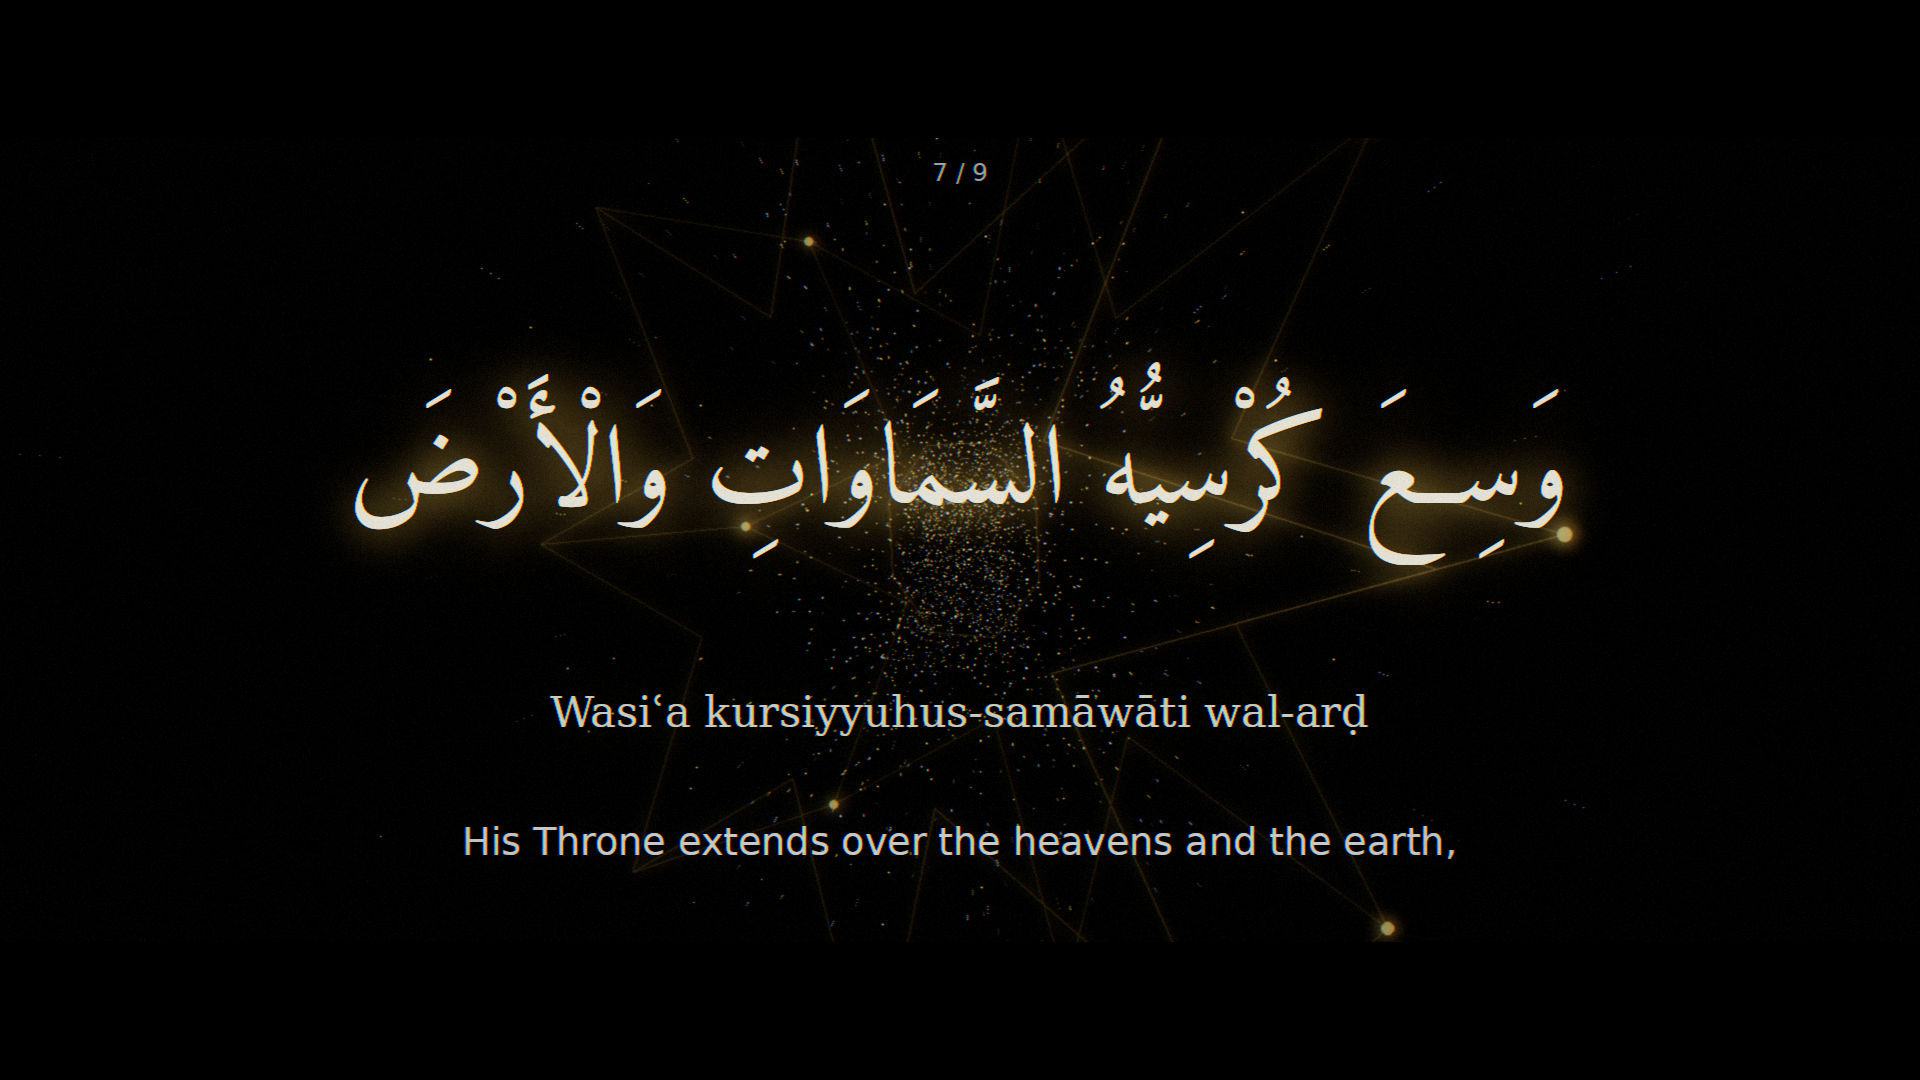
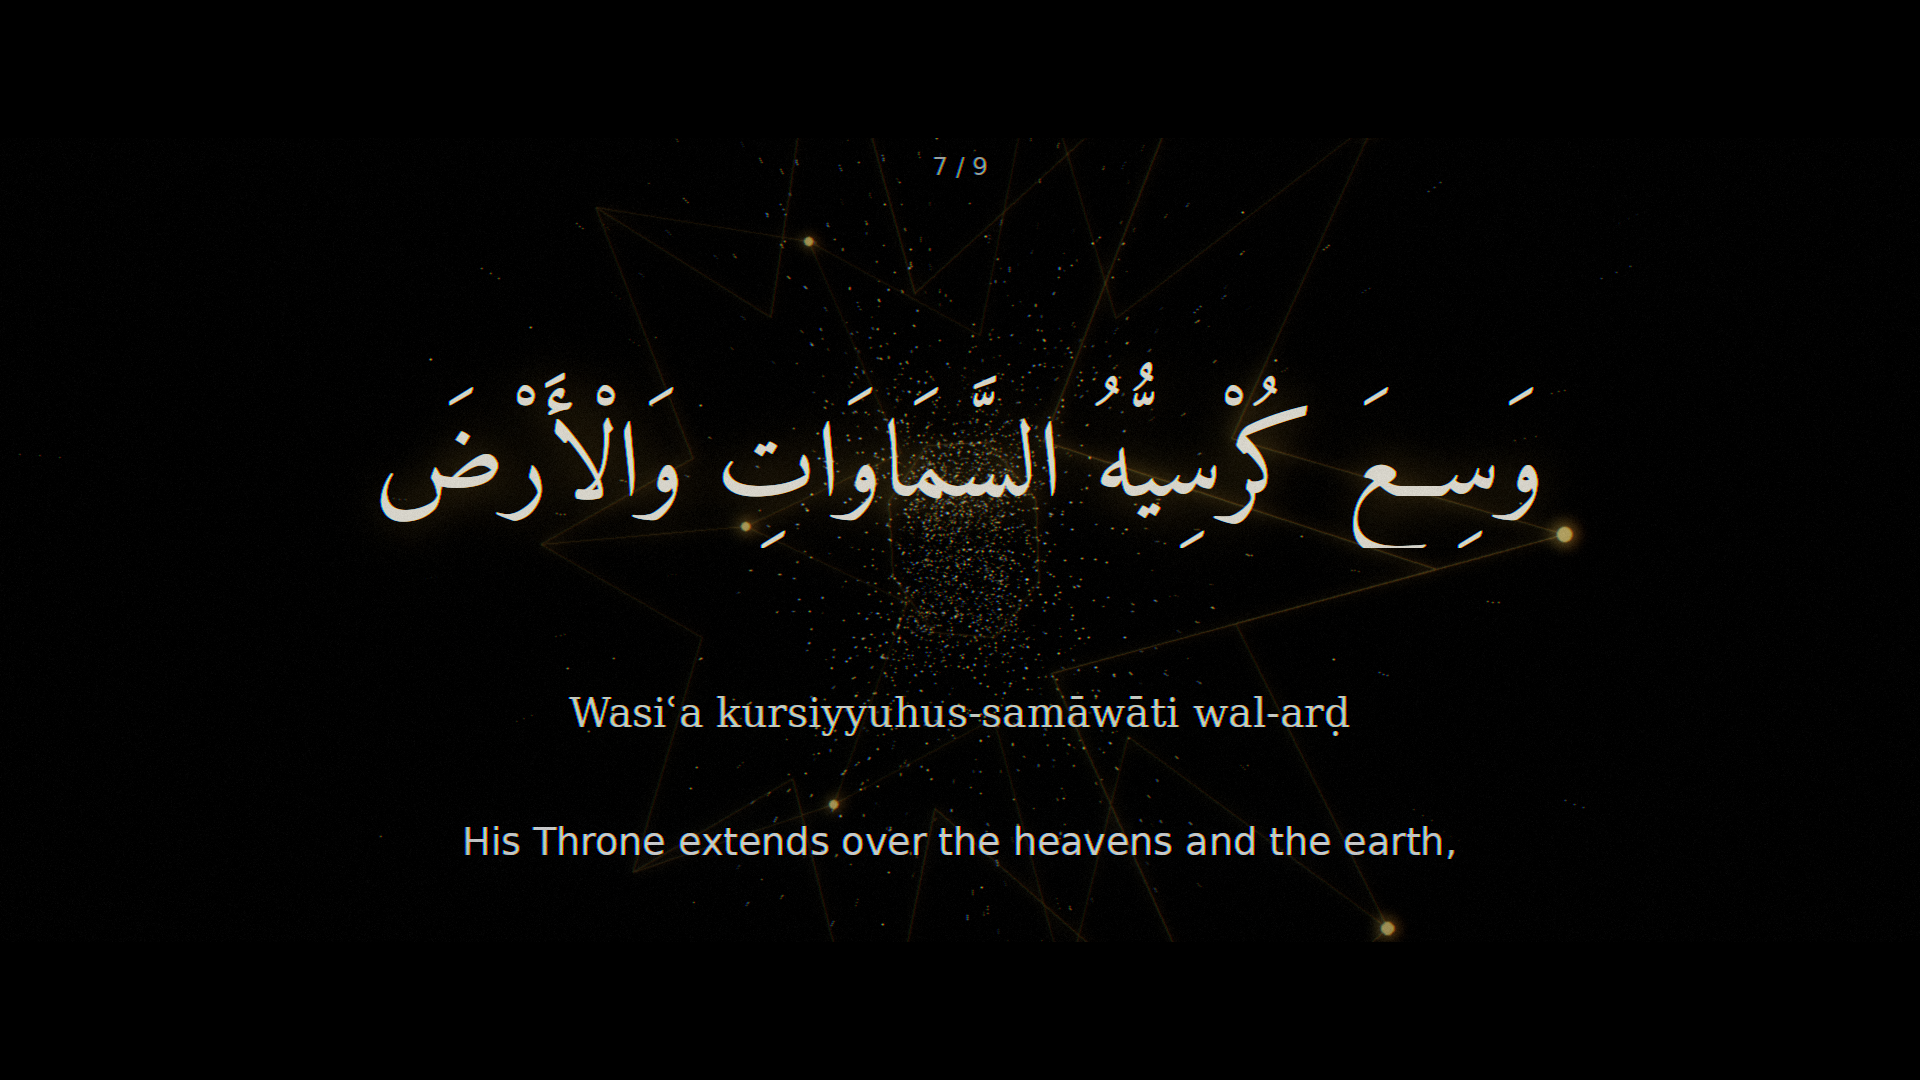
Add kinetic word-by-word reveals and camera parallax
- Arabic revealed word by word in RTL reading order, each word rising into
  place with a glow burst; transliteration cascades left-to-right; English
  meaning fades in after
- finale now cascades the full verse line by line before converging
- camera parallax sway: nearer particle layers drift more than the emblem
  and text for a sense of depth
- layout_words / make_word_tile / reveal_words helpers

https://claude.ai/code/session_01KhTXHDekyBS7JiP1gvypY7

diff --git a/src/cinematic.py b/src/cinematic.py
@@ -150,13 +150,15 @@ class Field:
             self.v[rec] = self.rng.uniform(-1.25, 1.25, k)
             self.mag[rec] = self.rng.uniform(0.35, 1.0, k) ** 1.6
 
-    def render(self, buf, dz, brightness=1.0, streak=1.0):
+    def render(self, buf, dz, brightness=1.0, streak=1.0, pan_u=0.0, pan_v=0.0):
         W, H = self.W, self.H
         cx, cy = W * 0.5, H * 0.5
         z = self.z
         inv = self.scale / z
-        sx = cx + self.u * inv
-        sy = cy + self.v * inv * (W / H)  # keep aspect of motion
+        u = self.u + pan_u                  # camera pan -> nearer stars shift more
+        v = self.v + pan_v
+        sx = cx + u * inv
+        sy = cy + v * inv * (W / H)  # keep aspect of motion
         # brightness falls with depth, sharpens near camera
         depth = np.clip(1.0 - (z - self.znear) / (self.zfar - self.znear), 0, 1)
         amp = (0.30 + 1.5 * depth ** 1.5) * self.mag * brightness
@@ -164,8 +166,8 @@ class Field:
         # motion streaks: sample along the path travelled this frame
         zprev = z + dz
         invp = self.scale / zprev
-        sxp = cx + self.u * invp
-        syp = cy + self.v * invp * (W / H)
+        sxp = cx + u * invp
+        syp = cy + v * invp * (W / H)
         speed = np.hypot(sx - sxp, sy - syp)
         nseg = int(np.clip(streak, 1, 6))
         if nseg <= 1:
@@ -232,7 +234,8 @@ def khatam_geometry(depth=0.30, outer=1.0, inner=0.46):
 _KHATAM_V, _KHATAM_E, _KHATAM_TIPS = khatam_geometry()
 
 
-def render_emblem(W, H, t, cz, rot_speed, scale_px, brightness):
+def render_emblem(W, H, t, cz, rot_speed, scale_px, brightness,
+                  cx_off=0.0, cy_off=0.0):
     """Draw the rotating 3-D emblem to an intensity layer, return RGB float (H,W,3).
 
     Rendered as a glowing line drawing: a sharp core layer plus a strongly
@@ -246,8 +249,8 @@ def render_emblem(W, H, t, cz, rot_speed, scale_px, brightness):
     P[:, 2] += cz
     f = scale_px
     z = P[:, 2]
-    sx = W * 0.5 + f * P[:, 0] / z
-    sy = H * 0.5 + f * P[:, 1] / z
+    sx = W * 0.5 + cx_off + f * P[:, 0] / z
+    sy = H * 0.5 + cy_off + f * P[:, 1] / z
     for i, j in _KHATAM_E:
         if z[i] <= 0.05 or z[j] <= 0.05:
             continue
@@ -291,6 +294,53 @@ def make_text_tile(lines, font_obj, fill, line_gap=1.5, pad=40, align="center"):
         y = pad + i * lh + lh // 2
         d.text((W // 2, y), ln, font=font_obj, fill=fill, anchor="mm")
     return tile
+
+
+def _measure(txt, font_obj):
+    return ImageDraw.Draw(Image.new("RGBA", (4, 4))).textlength(txt, font=font_obj)
+
+
+def make_word_tile(word, font_obj, fill):
+    """Render a single word to a tight RGBA tile (symmetric padding for glow)."""
+    pad = int(font_obj.size * 0.40)
+    adv = _measure(word, font_obj)
+    W = int(adv) + pad * 2
+    H = int(font_obj.size * 1.75) + pad
+    tile = Image.new("RGBA", (W, H), (0, 0, 0, 0))
+    ImageDraw.Draw(tile).text((W // 2, H // 2), word, font=font_obj,
+                              fill=fill, anchor="mm")
+    return tile, adv
+
+
+def layout_words(text, font_obj, fill, max_w, line_h, rtl):
+    """Lay words out into wrapped, centred lines. Returns a list of
+    (tile, dx, dy) in reading order, positioned relative to the block centre."""
+    space_w = max(_measure(" ", font_obj), font_obj.size * 0.30)
+    items = [(w,) + make_word_tile(w, font_obj, fill) for w in text.split()]
+    lines, cur, curw = [], [], 0.0
+    for (w, tile, adv) in items:
+        add = adv + (space_w if cur else 0)
+        if cur and curw + add > max_w:
+            lines.append((cur, curw))
+            cur, curw, add = [], 0.0, adv
+        cur.append((tile, adv))
+        curw += add
+    if cur:
+        lines.append((cur, curw))
+    placed, n = [], len(lines)
+    for li, (cur, curw) in enumerate(lines):
+        dy = (li - (n - 1) / 2.0) * line_h
+        if rtl:
+            x = curw / 2.0
+            for (tile, adv) in cur:
+                placed.append((tile, x - adv / 2.0, dy))
+                x -= adv + space_w
+        else:
+            x = -curw / 2.0
+            for (tile, adv) in cur:
+                placed.append((tile, x + adv / 2.0, dy))
+                x += adv + space_w
+    return placed
 
 
 def wrap_latin(txt, font_obj, max_w):
@@ -455,24 +505,32 @@ def prepare_assets(W, H):
     assets["title_sub"] = make_text_tile(
         ["THE THRONE  •  " + verse.REFERENCE.upper()],
         font(F_LATIN, int(H * 0.028)), (190, 200, 205, 255))
-    # per verse
+    # per verse — Arabic & transliteration are laid out word-by-word for the
+    # kinetic reveal; the English meaning fades in as wrapped line tiles.
+    ar_font = font(F_QURAN, int(H * 0.100))
+    tr_font = font(F_SERIF, int(H * 0.038))
     for i, (ar, tr, en) in enumerate(verse.SEGMENTS, 1):
-        ar_lines = wrap_arabic(ar, font(F_QURAN, int(H * 0.105)), max_w)
-        assets[f"ar{i}"] = make_text_tile(
-            ar_lines, font(F_QURAN, int(H * 0.105)), (246, 238, 214, 255), line_gap=1.65)
-        tr_lines = wrap_latin(tr, font(F_SERIF, int(H * 0.040)), max_w)
-        assets[f"tr{i}"] = make_text_tile(
-            tr_lines, font(F_SERIF, int(H * 0.040)), (206, 214, 200, 255))
+        assets[f"arw{i}"] = layout_words(
+            ar, ar_font, (246, 238, 214, 255), max_w,
+            line_h=int(H * 0.100 * 1.6), rtl=True)
+        assets[f"trw{i}"] = layout_words(
+            tr, tr_font, (206, 214, 200, 255), max_w,
+            line_h=int(H * 0.038 * 1.5), rtl=False)
         en_lines = wrap_latin(en, font(F_LATIN, int(H * 0.036)), max_w)
         assets[f"en{i}"] = make_text_tile(
             en_lines, font(F_LATIN, int(H * 0.036)), (214, 218, 224, 255))
         assets[f"ct{i}"] = make_text_tile(
             [f"{i} / {len(verse.SEGMENTS)}"], font(F_LATIN, int(H * 0.024)),
             (150, 160, 165, 255))
-    # finale
-    fa = wrap_arabic(verse.FULL_ARABIC, font(F_QURAN, int(H * 0.062)), int(W * 0.82))
-    assets["full_ar"] = make_text_tile(
-        fa, font(F_QURAN, int(H * 0.062)), (244, 236, 212, 255), line_gap=1.7)
+    # finale — full verse revealed line-by-line (cascade)
+    full_font = font(F_QURAN, int(H * 0.060))
+    fa = wrap_arabic(verse.FULL_ARABIC, full_font, int(W * 0.82))
+    lh = int(H * 0.060 * 1.75)
+    assets["full_lines"] = []
+    for li, line in enumerate(fa):
+        tile = make_text_tile([line], full_font, (244, 236, 212, 255), line_gap=1.0)
+        dy = (li - (len(fa) - 1) / 2.0) * lh
+        assets["full_lines"].append((tile, dy))
     assets["full_ref"] = make_text_tile(
         [verse.REFERENCE.upper()], font(F_LATIN, int(H * 0.028)), (224, 196, 130, 255))
     return assets
@@ -481,6 +539,26 @@ def prepare_assets(W, H):
 # ---------------------------------------------------------------------------
 # Per-scene frame painters
 # ---------------------------------------------------------------------------
+
+def reveal_words(buf, placed, lt, dur, ox, oy, stagger, start, hold_exit,
+                 glow_color, rise, gmul=0.4, scale0=0.82, app=0.45):
+    """Reveal a list of (tile, dx, dy) word tiles staggered in reading order.
+    Each word fades + rises into place with a glow burst that then settles."""
+    ex = smooth((lt - (dur - hold_exit)) / hold_exit)
+    for k, (tile, dx, dy) in enumerate(placed):
+        loc = lt - (start + k * stagger)
+        if loc < 0:
+            continue
+        a = smooth(loc / app) * (1.0 - ex)
+        if a <= 0.002:
+            continue
+        ri = (1.0 - smooth(loc / (app * 1.3))) * rise
+        s = lerp(scale0, 1.0, smoother(min(1.0, loc / app)))
+        burst = 1.0 - smooth(loc / (app * 0.9))     # 1 -> 0 as it lands
+        g = gmul * (0.45 + 1.7 * burst)
+        composite_tile(buf, tile, ox + dx, oy + dy - ri, s, a,
+                       glow=g, glow_color=glow_color)
+
 
 def paint_title(buf, assets, lt, dur, W, H):
     # text emerges from depth: scale up + fade in, gentle float
@@ -500,36 +578,56 @@ def verse_alpha(lt, dur, fin=1.1, fout=1.1):
     return smooth(lt / fin) * (1.0 - smooth((lt - (dur - fout)) / fout))
 
 
-def paint_verse(buf, assets, sc, lt, W, H):
+def paint_verse(buf, assets, sc, lt, W, H, sway=(0.0, 0.0)):
     i = sc.kw["idx"]
     dur = sc.dur
-    a = verse_alpha(lt, dur)
-    # Arabic emerges from depth
-    s_ar = lerp(0.82, 1.0, smoother(min(1.0, lt / 1.8)))
-    drift = np.sin(lt * 0.6 + i) * H * 0.005
-    composite_tile(buf, assets[f"ct{i}"], W * 0.5, H * 0.16,
-                   1.0, a * 0.8, glow=0.05, glow_color=PARCH)
-    composite_tile(buf, assets[f"ar{i}"], W * 0.5, H * 0.40 + drift,
-                   s_ar, a, glow=0.55, glow_color=GOLD)
-    # lower third
-    a_lt = smooth((lt - 0.7) / 1.4) * (1.0 - smooth((lt - (dur - 1.0)) / 1.0))
-    composite_tile(buf, assets[f"tr{i}"], W * 0.5, H * 0.66,
-                   1.0, a_lt, glow=0.12, glow_color=GOLD)
-    composite_tile(buf, assets[f"en{i}"], W * 0.5, H * 0.78,
-                   1.0, a_lt, glow=0.05, glow_color=PARCH)
+    sx, sy = sway
+    a_all = verse_alpha(lt, dur)
+    composite_tile(buf, assets[f"ct{i}"], W * 0.5 + sx * 0.3, H * 0.155 + sy * 0.3,
+                   1.0, a_all * 0.75, glow=0.05, glow_color=PARCH)
+
+    # Arabic — word by word, in reading order, igniting as each lands.
+    arw = assets[f"arw{i}"]
+    reveal_words(buf, arw, lt, dur, W * 0.5 + sx, H * 0.40 + sy,
+                 stagger=0.16, start=0.35, hold_exit=1.0,
+                 glow_color=GOLD, rise=H * 0.028, gmul=0.42, scale0=0.80)
+
+    # Transliteration — quick left-to-right word cascade, after Arabic starts.
+    tr_start = 0.7 + len(arw) * 0.16 * 0.45
+    trw = assets[f"trw{i}"]
+    reveal_words(buf, trw, lt, dur, W * 0.5 + sx * 0.6, H * 0.66 + sy * 0.6,
+                 stagger=0.05, start=tr_start, hold_exit=0.9,
+                 glow_color=GOLD, rise=H * 0.012, gmul=0.12, scale0=0.92, app=0.3)
+
+    # English meaning — fades in as a block once the rest is settling.
+    en_start = tr_start + len(trw) * 0.05 + 0.3
+    a_en = smooth((lt - en_start) / 0.9) * (1.0 - smooth((lt - (dur - 0.9)) / 0.9))
+    composite_tile(buf, assets[f"en{i}"], W * 0.5 + sx * 0.45, H * 0.78 + sy * 0.45,
+                   1.0, a_en, glow=0.05, glow_color=PARCH)
 
 
-def paint_finale(buf, assets, lt, dur, W, H):
-    # full verse fades in, holds, then converges to a point
-    a_in = smooth(lt / 2.2)
+def paint_finale(buf, assets, lt, dur, W, H, sway=(0.0, 0.0)):
+    sx, sy = sway
+    # Full verse cascades in line by line, holds, then converges to a point.
     converge = smooth((lt - (dur - 2.6)) / 2.4)
-    a = a_in * (1.0 - converge)
-    s = lerp(0.85, 1.0, smoother(min(1.0, lt / 2.4))) * lerp(1.0, 0.05, converge)
-    composite_tile(buf, assets["full_ar"], W * 0.5, H * 0.44,
-                   s, a, glow=0.4, glow_color=GOLD)
-    composite_tile(buf, assets["full_ref"], W * 0.5, H * 0.72,
+    lines = assets["full_lines"]
+    for li, (tile, dy) in enumerate(lines):
+        loc = lt - (0.4 + li * 0.45)
+        if loc < 0:
+            continue
+        a_in = smooth(loc / 0.9)
+        a = a_in * (1.0 - converge)
+        if a <= 0.002:
+            continue
+        burst = 1.0 - smooth(loc / 0.8)
+        s = lerp(0.9, 1.0, smoother(min(1.0, loc / 0.8))) * lerp(1.0, 0.05, converge)
+        composite_tile(buf, tile, W * 0.5 + sx * 0.6,
+                       H * 0.44 + dy * lerp(1.0, 0.05, converge) + sy * 0.6,
+                       s, a, glow=0.30 + 0.8 * burst, glow_color=GOLD)
+    composite_tile(buf, assets["full_ref"], W * 0.5 + sx * 0.4, H * 0.80 + sy * 0.4,
                    lerp(1.0, 0.2, converge),
-                   smooth((lt - 1.2) / 1.6) * (1 - converge), glow=0.15)
+                   smooth((lt - (0.4 + len(lines) * 0.45)) / 1.2) * (1 - converge),
+                   glow=0.15)
 
 
 # ---------------------------------------------------------------------------
@@ -606,12 +704,20 @@ def render(out_path, W, H, fps, preview=False, seconds_cap=None,
 
             hdr = np.zeros((H, W, 3), dtype=np.float32)
 
+            # --- camera parallax sway (nearer layers drift more) ---
+            pan_u = 0.055 * np.sin(abs_t * 0.16)
+            pan_v = 0.038 * np.sin(abs_t * 0.12 + 1.0)
+            sway = (pan_u * 240.0, pan_v * 240.0)        # mid-depth screen offset
+            emb_off = (pan_u * 90.0, pan_v * 90.0)       # far layer offset
+
             # --- background particle fields ---
             star_far.advance(dz)
             dust.advance(dz * 0.7)
             warpx = 4 if lt < 0.7 and sc.kind == "verse" else (5 if sc.kind == "title" and lt < 1.5 else 2)
-            star_far.render(hdr, dz, brightness=1.0, streak=warpx)
-            dust.render(hdr, dz * 0.7, brightness=0.8, streak=1)
+            star_far.render(hdr, dz, brightness=1.0, streak=warpx,
+                            pan_u=pan_u, pan_v=pan_v)
+            dust.render(hdr, dz * 0.7, brightness=0.8, streak=1,
+                        pan_u=pan_u * 1.3, pan_v=pan_v * 1.3)
 
             # --- rotating 3-D emblem ---
             if sc.kind == "title":
@@ -630,16 +736,17 @@ def render(out_path, W, H, fps, preview=False, seconds_cap=None,
             if emb_b > 0.001:
                 emb = render_emblem(W, H, emblem_phase * 6.0 + abs_t,
                                     emb_cz, rot_speed=0.5,
-                                    scale_px=emb_scale, brightness=emb_b)
+                                    scale_px=emb_scale, brightness=emb_b,
+                                    cx_off=emb_off[0], cy_off=emb_off[1])
                 hdr += emb
 
             # --- text layer ---
             if sc.kind == "title":
                 paint_title(hdr, assets, lt, sc.dur, W, H)
             elif sc.kind == "finale":
-                paint_finale(hdr, assets, lt, sc.dur, W, H)
+                paint_finale(hdr, assets, lt, sc.dur, W, H, sway=sway)
             else:
-                paint_verse(hdr, assets, sc, lt, W, H)
+                paint_verse(hdr, assets, sc, lt, W, H, sway=sway)
 
             # global fade from/to black at very start and end
             fade = 1.0